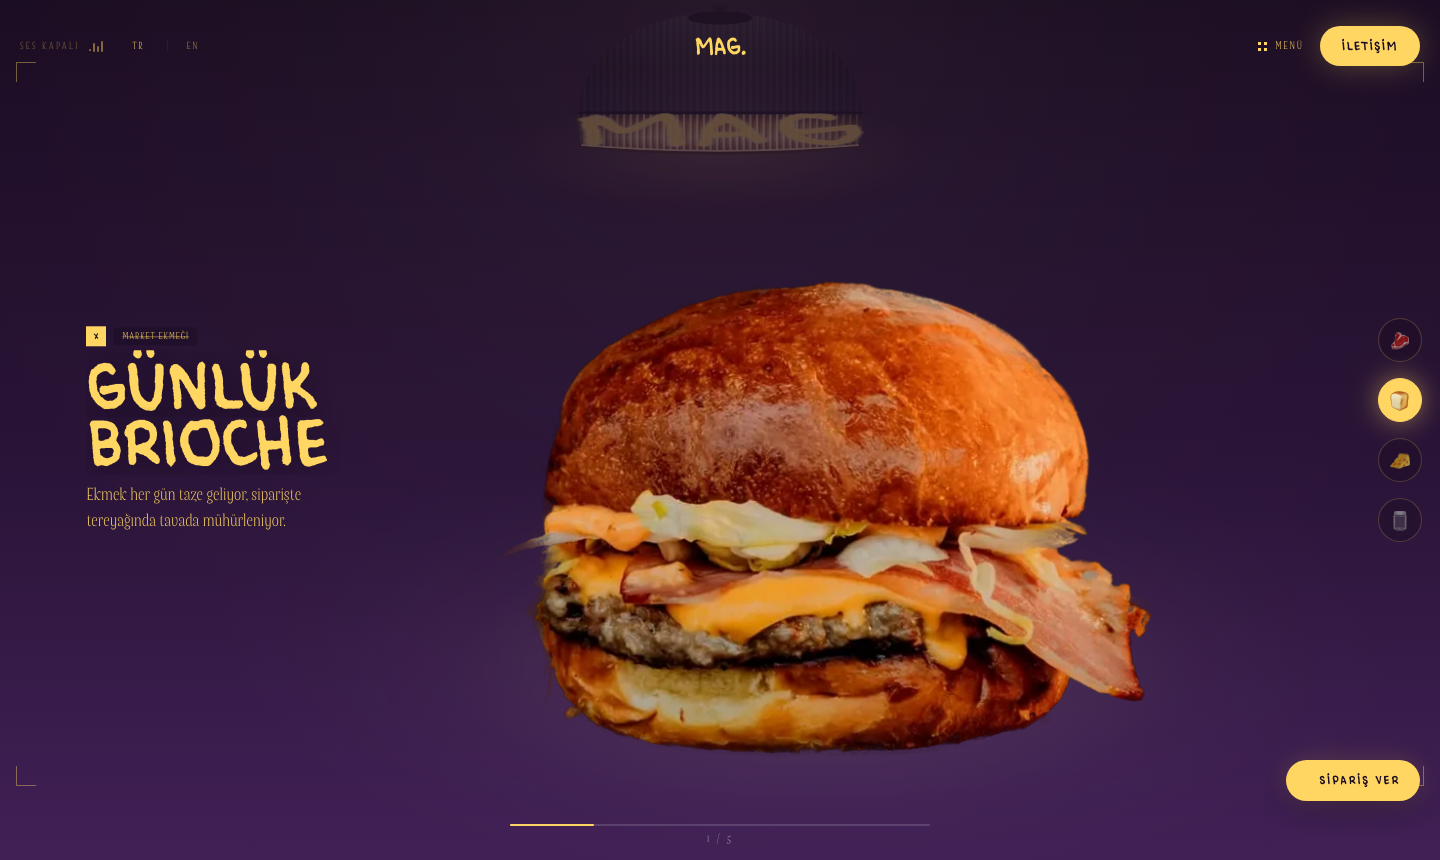
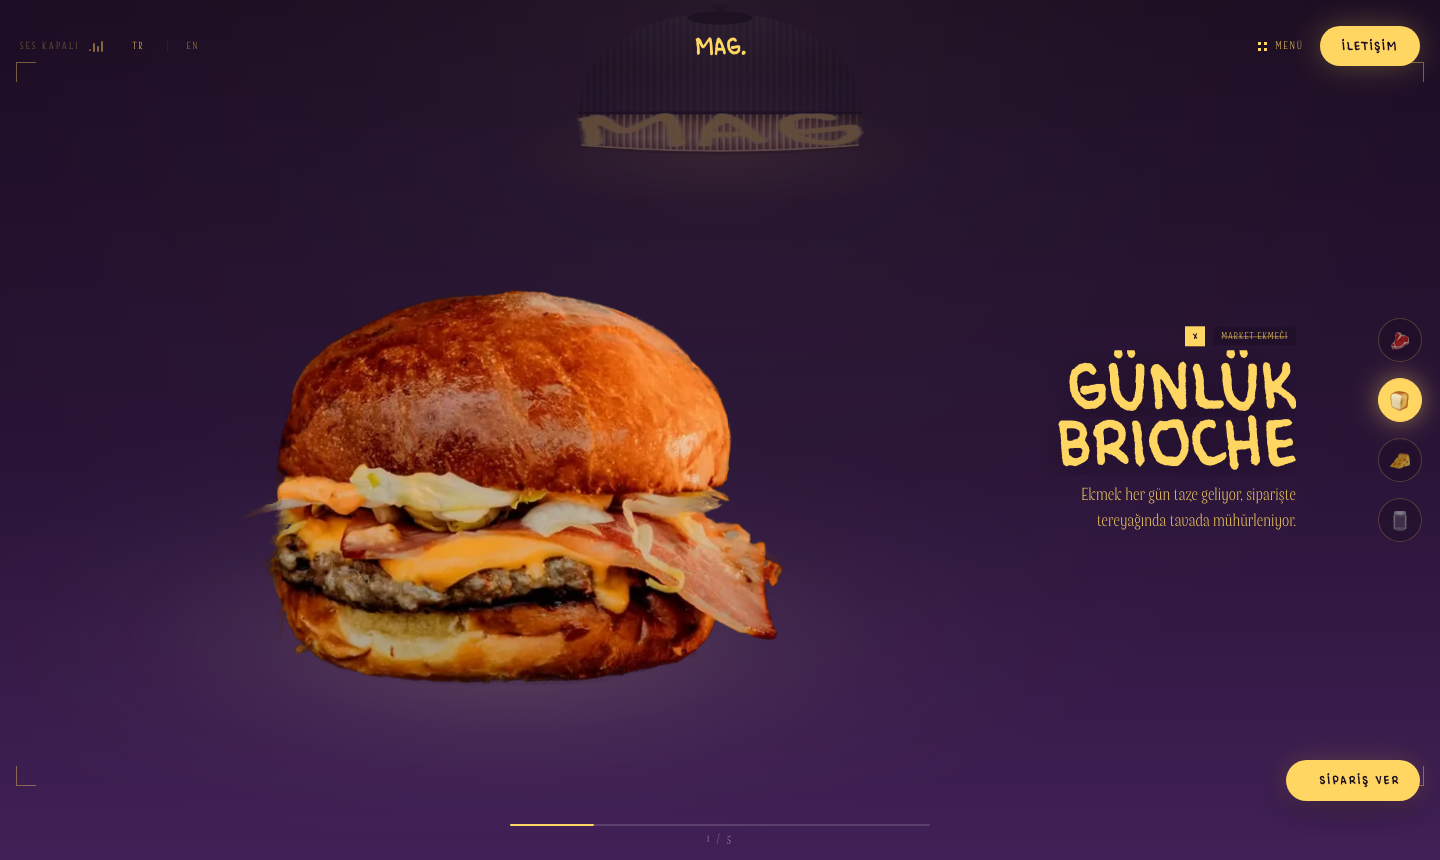
İddia bölümü: dört durak (yatay + dikey), metin taraflar arası alternatif
- CLAIM_X [+26, −26, +22, −26]%, CLAIM_Y [−14, −6, +4, +14]% — duraklar arası smooth() ile sürekli
- Metin burgerin karşı tarafında: c0 sol, c1 sağ, c2 sol, c3 sağ (CLAIM_SIDE), 420 ms kayarak geçiş
- Havuz ışığı hem yatay hem dikey kayar (Frame.poolX + poolY)
- Dikey sığma kısıtı durak başına hesaplanır (claimY kutu üstü, merkez y + hOld/2): hiçbir durakta kırpılma yok
- Mobilde yatay ve dikey mesafeler yarıya, metin burgerin üstünde
- claims-flow.mjs 60 kontrol (durak konumları, dikey kaymalar, ışık, çakışma); 16 kare docs/screens/akis

Changed region(s): [[0.0625, 0.3023, 0.9062, 0.8767]]

diff --git a/components/stage/stageMath.ts b/components/stage/stageMath.ts
@@ -111,9 +111,13 @@ export interface ItemStyle {
   z: number;
 }
 
-/* ---- İddia bölümü: tek planda yatay akış (burger BÜTÜN, katman/parçalanma yok) ---- */
-/** Aşama başına yatay merkez konumu, viewport genişliğinin oranı (+ sağ). Mobilde yarısı. */
-export const CLAIM_X = [0.26, 0.14, -0.14, -0.26] as const;
+/* ---- İddia bölümü: tek planda akış (burger BÜTÜN, katman/parçalanma yok) ---- */
+/** Durak başına yatay merkez, viewport genişliğinin oranı (+ sağ). Mobilde yarısı. */
+export const CLAIM_X = [0.26, -0.26, 0.22, -0.26] as const;
+/** Durak başına dikey merkez, viewport YÜKSEKLİĞİNİN oranı (+ aşağı). Mobilde yarısı. */
+export const CLAIM_Y = [-0.14, -0.06, 0.04, 0.14] as const;
+/** Metin bloğunun tarafı: burgerin karşısındaki boş alan (c0 sol, c1 sağ, c2 sol, c3 sağ) */
+export const CLAIM_SIDE = ["left", "right", "left", "right"] as const;
 /** Aşama başına dönüş (derece), c0 → c3 doğrusal */
 export const CLAIM_ROT = [-2, -0.667, 0.667, 2] as const;
 /** Ölçek: kenarlarda 1.0, ortada 1.03 */
@@ -178,6 +182,8 @@ export interface Frame {
   track: number;
   /** havuz ışığının yatay kayması (px) — burger nereye giderse ışık da oraya */
   poolX: number;
+  /** havuz ışığının dikey kayması (px) */
+  poolY: number;
   /** sağ alt "Sipariş ver" pill'i: dive'dan itibaren, kapanışta kaybolur */
   cta: number;
   /** iddia bölümü: yatay akış (metin tarafı) */
@@ -285,9 +291,9 @@ export function computeFrame(p: number, env: Env, offset = 0): Frame {
   const tOut = seg(p, S.out1[0], S.out2[1]); // tüm kapanış
   const outro = p >= S.foot[0]; // BİZE KATIL'dan itibaren burger barın altından görünür
 
-  /* ---- iddia bölümü: yatay akış ----
-     Burger sağdan girer, aşama aşama sola akar (CLAIM_X), hafifçe döner (CLAIM_ROT), ölçek 1→1.03→1.
-     Aralar scroll'a bağlı sürekli: aşama merkezleri arasında smooth() ile geçilir, kademe yok. */
+  /* ---- iddia bölümü: dört durak ----
+     Burger duraklar arasında hem yatayda hem dikeyde akar (CLAIM_X / CLAIM_Y), hafifçe döner,
+     ölçek 1→1.03→1. Aralar scroll'a bağlı sürekli: smooth() ile geçilir, kademeli zıplama yok. */
   const claimsOn = claimsT > 0 && claimsT < 1 && !outro;
   /* aşama ekseni: c0 merkezi 0, c3 merkezi 3 — segment sınırlarına göre sürekli konum */
   const cSpan = (S.c3[1] - S.c0[0]) / 4;
@@ -296,6 +302,7 @@ export function computeFrame(p: number, env: Env, offset = 0): Frame {
   const ft = smooth(clamp(flowT - fi));
   const xk = mobile ? 0.5 : 1; // mobilde yatay mesafe yarıya
   const flowX = lerp(CLAIM_X[fi], CLAIM_X[fi + 1], ft) * vw * xk;
+  const flowY = lerp(CLAIM_Y[fi], CLAIM_Y[fi + 1], ft) * vh * xk;
   const flowRot = lerp(CLAIM_ROT[fi], CLAIM_ROT[fi + 1], ft);
   const flowSc = lerp(CLAIM_SCALE[fi], CLAIM_SCALE[fi + 1], ft);
   /* Akış boyunca ölçek TABANI sabit: en uçtaki aşama (|x| en büyük, dönüş en büyük) viewport'a sığmalı.
@@ -361,7 +368,7 @@ export function computeFrame(p: number, env: Env, offset = 0): Frame {
       // odak pozu (w=1) ile kenara kaçış (w=0) arasında harmanla — geçiş ortasında iki poz karışır
       /* dalışın hedefi = akışın ilk aşama konumu (c0): iddia bölümüne sıçramasız girsin */
       const fx = lerp(x, CLAIM_X[0] * vw * xk, diveE);
-      const fy = lerp(y, claimY, diveE);
+      const fy = lerp(y, claimY + CLAIM_Y[0] * vh * xk, diveE);
       const fsc = lerp(sc, mobile ? 1.95 : 2.25, diveE);
       /* dalışın hedef dönüşü = akışın ilk aşaması (−2°): iddiaya girerken dönüş sıçraması olmaz */
       const frot = lerp(rot, CLAIM_ROT[0], diveE);
@@ -380,14 +387,14 @@ export function computeFrame(p: number, env: Env, offset = 0): Frame {
       /* Tek plan: yatay akış. Dikey sabit (claimY), ölçek ~1, hafif dönüş; parlaklık tam (karartma yok).
          Yatay konum aşağıda, ağırlık merkezi düzeltmesinden SONRA kilitlenir (hedef = görselin merkezi). */
       x = lerp(x, flowX, focusW);
-      y = lerp(y, claimY, focusW);
+      y = lerp(y, claimY + flowY, focusW);
       sc = lerp(sc, (mobile ? 1.95 : 2.25) * flowSc, focusW);
       br = lerp(br, 1, focusW);
       rot = lerp(rot, flowRot, focusW);
     }
     if (focusW > 0 && tPay > 0) {
       /* manifestoya giriş, akışın bitiş pozundan (c3) başlar */
-      const fy = claimY;
+      const fy = claimY + CLAIM_Y[3] * vh * xk;
       const fsc = (mobile ? 1.95 : 2.25) * CLAIM_SCALE[3];
       const frot = CLAIM_ROT[3];
       const fbr = 1;
@@ -462,8 +469,22 @@ export function computeFrame(p: number, env: Env, offset = 0): Frame {
       const th2 = inFlow ? Math.max(flowRotMax, Math.abs((rot * Math.PI) / 180)) : Math.abs((rot * Math.PI) / 180);
       const halfW = (w / 2) * Math.cos(th2) + (hOld / 2) * Math.sin(th2);
       const room = vw / 2 - M - cxTarget;
-      /* sığma tabanı akışta CLAIM_SCALE'i içermez: taban × flowSc ≤ sığan olacak şekilde */
       sc = Math.min(sc, (room / halfW) * (inFlow ? flowSc : 1));
+      /* DİKEY sığma: duraklar y ekseninde de kayıyor (CLAIM_Y). Kartın görsel kutusu claimY + flowY
+         merkezinde; en uç durak viewport dışına taşmamalı. Yarı yükseklik dönüşle birlikte büyür. */
+      if (inFlow) {
+        /* En kısıtlayıcı durak: merkez claimY + CLAIM_Y[i]·vh; üstte claimY+dy, altta vh−(claimY+dy) yer var.
+           Her durağı ayrı ayrı değerlendirip en darını al. */
+        const halfH = (hOld / 2) * Math.cos(th2) + (w / 2) * Math.sin(th2);
+        /* claimY eski koordinatta KUTU ÜSTÜ; görselin merkezi y + hOld/2 (ölçek 1 birimde).
+           Ölçek merkez etrafında olduğu için sınır: merkez ± halfH·s. */
+        let roomY = Infinity;
+        for (const cy of CLAIM_Y) {
+          const c = claimY + cy * vh * xk + hOld / 2;
+          roomY = Math.min(roomY, c - M, vh - c - M);
+        }
+        sc = Math.min(sc, (roomY / halfH) * flowSc);
+      }
     }
     /* görsel ağırlık merkezi düzeltmesi: (0.5 − cx) × görselGenişliği × ölçek.
        Tek yana taşan cutout'lar kutu merkezine göre değil, göze göre ortalanır.
@@ -516,7 +537,10 @@ export function computeFrame(p: number, env: Env, offset = 0): Frame {
   const lightIn = Math.pow(riseE, 1.8);
   const aura = tOut > 0 ? lightIn : Math.max(0, (1 - fanE * 0.72) * (1 - Math.max(payE, upT)));
   /* havuz ışığı burgerle birlikte yatay kayar: iddia bölümünde akış konumu, dışında 0 (px) */
-  const poolX = claimsT > 0 && claimsT < 1 && !outro ? flowX : tPay > 0 ? lerp(CLAIM_X[3] * vw * xk, 0, payE) : 0;
+  const inClaims = claimsT > 0 && claimsT < 1 && !outro;
+  const poolX = inClaims ? flowX : tPay > 0 ? lerp(CLAIM_X[3] * vw * xk, 0, payE) : 0;
+  /* havuz burgerle birlikte dikeyde de kayar */
+  const poolY = inClaims ? flowY : tPay > 0 ? lerp(CLAIM_Y[3] * vh * xk, 0, payE) : 0;
   const cta = seg(p, S.dive[0] + 0.01, S.dive[0] + 0.05) * (1 - seg(p, S.foot[0], S.foot[0] + 0.03));
 
   /* copy */
@@ -560,7 +584,8 @@ export function computeFrame(p: number, env: Env, offset = 0): Frame {
   const flow: ClaimFlow = {
     on: claimsOn,
     /* metin burgerin BOŞ tarafında: burger sağdayken (c0/c1) metin solda, sola geçince (c2/c3) sağda */
-    side: flowT < 1.5 ? "left" : "right",
+    /* metin burgerin KARŞI tarafında; durak ortasını geçince değişir (yarı yolda) */
+    side: CLAIM_SIDE[Math.min(3, Math.round(flowT))],
   };
 
   return {
@@ -578,6 +603,7 @@ export function computeFrame(p: number, env: Env, offset = 0): Frame {
     panelVeil,
     track,
     poolX,
+    poolY,
     cta,
     flow,
   };

diff --git a/components/stage/Stage.tsx b/components/stage/Stage.tsx
@@ -202,7 +202,7 @@ export default function Stage({ extra }: { extra?: ExtraCutouts }) {
       st("beam", "opacity", f.aura);
       st("lamp", "opacity", f.aura);
       /* havuz ışığı burgerle birlikte kayar */
-      st("pool", "transform", `translateX(${f.poolX.toFixed(1)}px)`);
+      st("pool", "transform", `translate(${f.poolX.toFixed(1)}px, ${f.poolY.toFixed(1)}px)`);
       st("cta", "opacity", f.cta);
       st("cta", "pointer-events", f.cta > 0.5 ? "auto" : "none");
 
